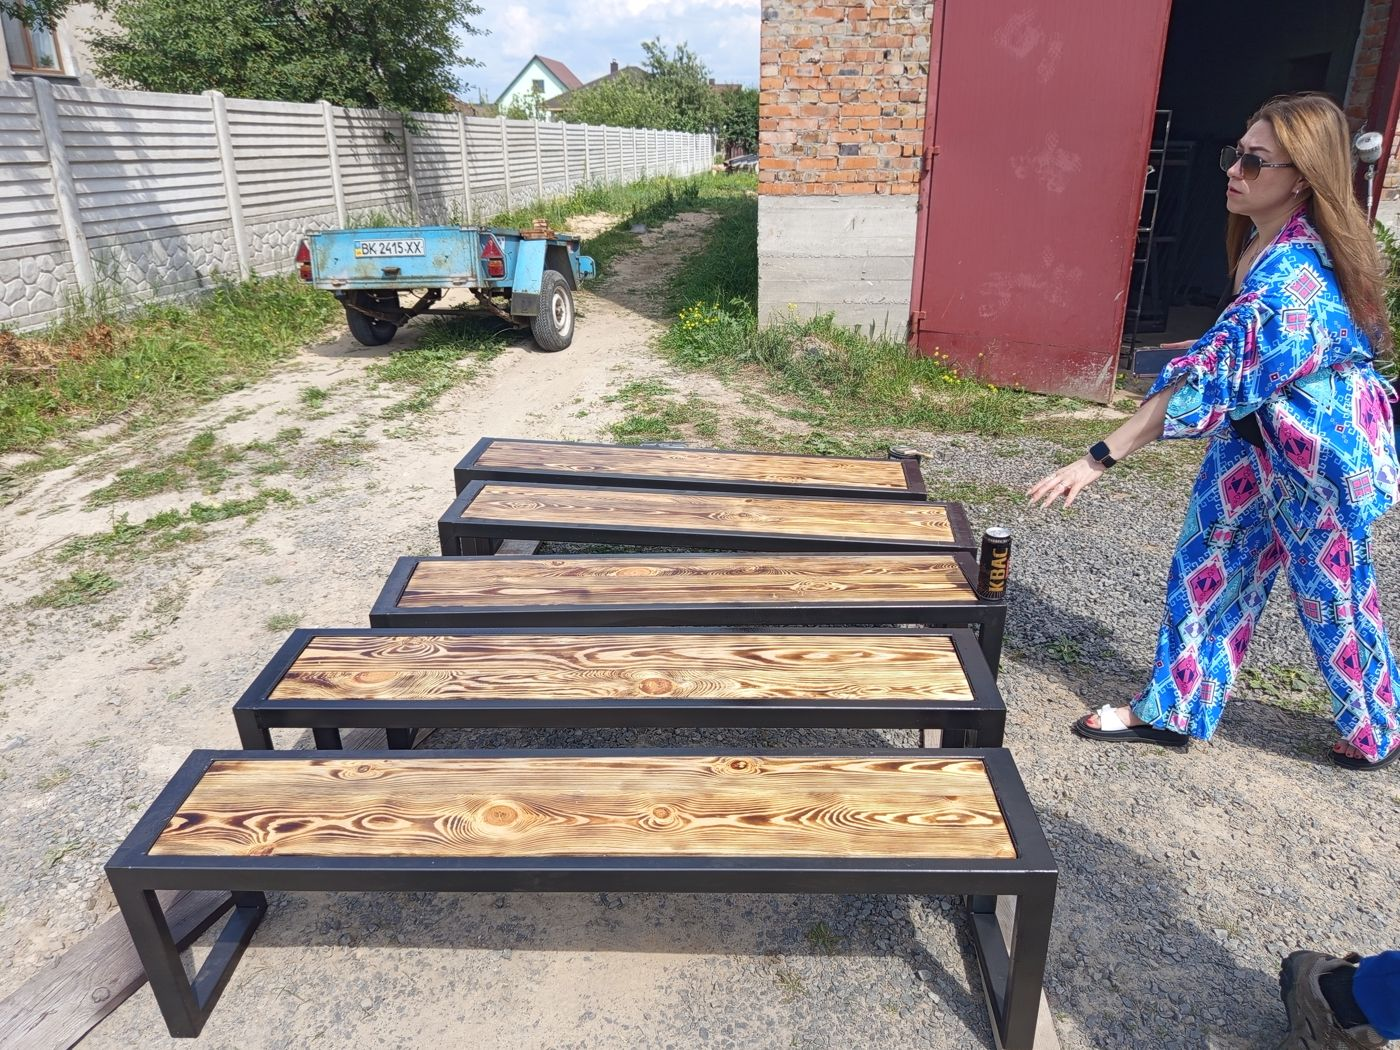
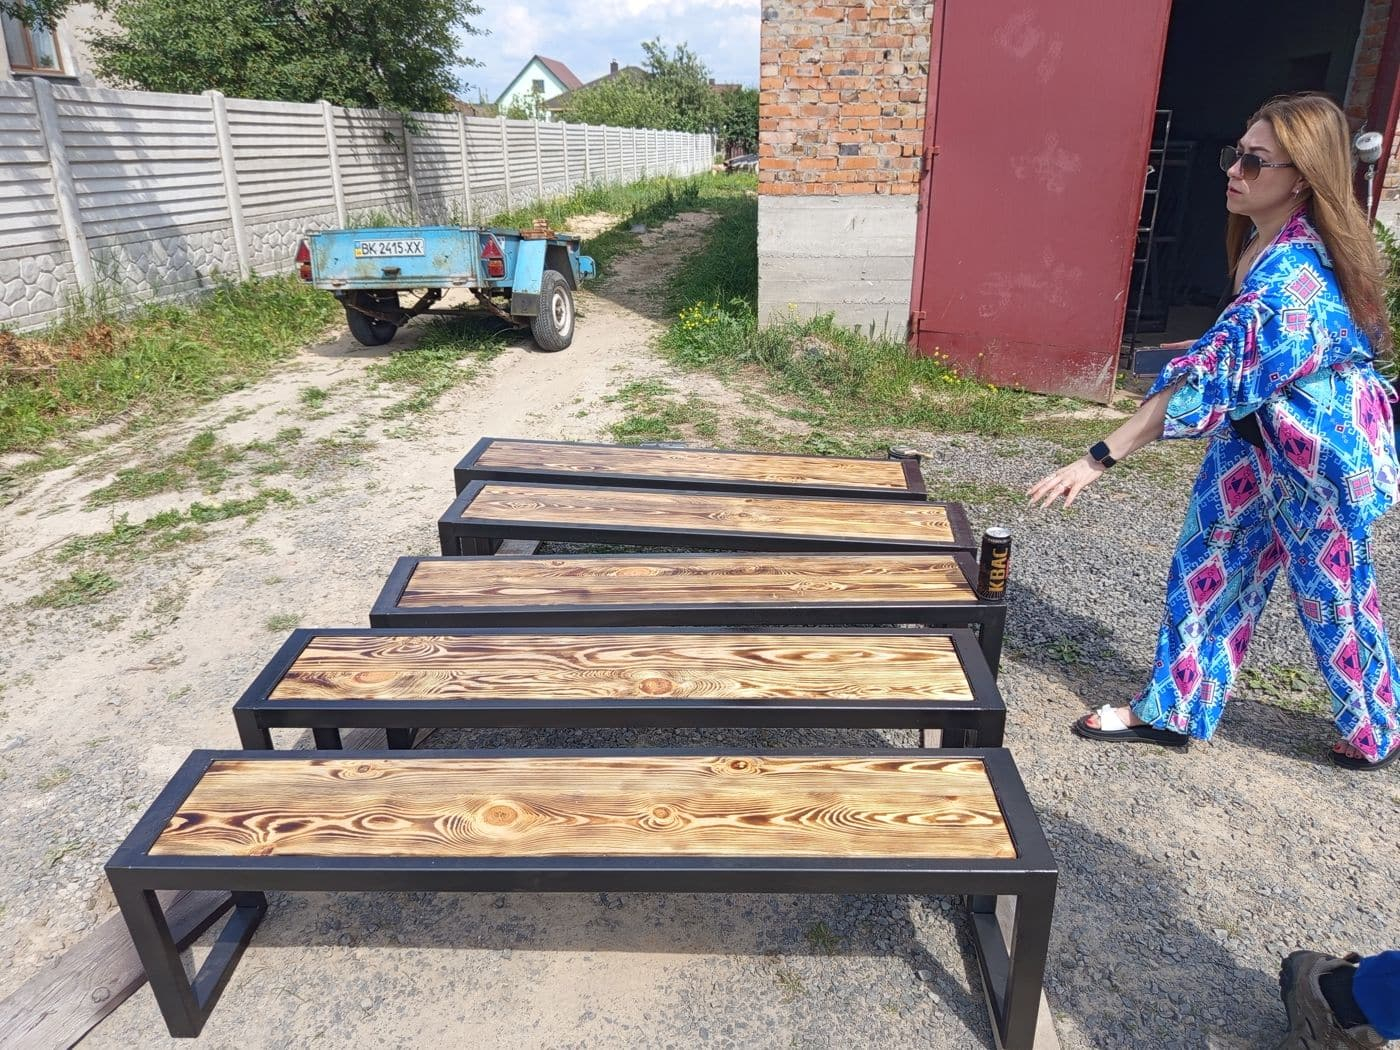
Сайт 2026-11-25 09:43

diff --git a/obyekty.html b/obyekty.html
@@ -51,14 +51,14 @@
   <div class="wrap">
     <div class="sec-h"><div class="k">Готові вироби</div><h2>Те, що ми виготовили</h2><p><span class="ph">[фото на погодження: підписи без розмірів і місць, уточнимо з Пашею]</span> Приклад сторінки об'єкта: <a href="obyekt-shablon.html" style="color:var(--lime-ink);font-weight:700">шаблон</a>.</p></div>
     <div class="gal">
-      <div class="shot img"><img src="/img/ready-canopy.jpg" alt="Арковий навіс з полікарбонатом" loading="lazy"><span class="cap">Арковий навіс з полікарбонатом</span></div>
-      <div class="shot img"><img src="/img/d-gazebo.jpg" alt="Навіс-альтанка з решіткою" loading="lazy"><span class="cap">Навіс-альтанка з решіткою</span></div>
-      <div class="shot img"><img src="/img/d-benches-photo.jpg" alt="Лавки: метал і дерево" loading="lazy"><span class="cap">Лавки: метал і дерево</span></div>
-      <div class="shot img"><img src="/img/d-bench-back.jpg" alt="Лавка зі спинкою" loading="lazy"><span class="cap">Лавка зі спинкою</span></div>
-      <div class="shot img"><img src="/img/d-shelf.jpg" alt="Стелаж: метал і дерево" loading="lazy"><span class="cap">Стелаж: метал і дерево</span></div>
-      <div class="shot img"><img src="/img/d-bed.jpg" alt="Металеве ліжко" loading="lazy"><span class="cap">Металеве ліжко</span></div>
-      <div class="shot img"><img src="/img/d-railing-house.jpg" alt="Перила сходів" loading="lazy"><span class="cap">Перила сходів</span></div>
-      <div class="shot img"><img src="/img/d-railing-canopy.jpg" alt="Козирок і перила біля входу" loading="lazy"><span class="cap">Козирок і перила біля входу</span></div>
+      <div class="shot img"><img src="/img/ready-canopy.jpg" srcset="/img/ready-canopy-600.jpg 600w, /img/ready-canopy.jpg 1400w" sizes="(max-width:760px) 100vw, 380px" alt="Арковий навіс з полікарбонатом" loading="lazy"><span class="cap">Арковий навіс з полікарбонатом</span></div>
+      <div class="shot img"><img src="/img/d-gazebo.jpg" srcset="/img/d-gazebo-600.jpg 600w, /img/d-gazebo.jpg 1400w" sizes="(max-width:760px) 100vw, 380px" alt="Навіс-альтанка з решіткою" loading="lazy"><span class="cap">Навіс-альтанка з решіткою</span></div>
+      <div class="shot img"><img src="/img/d-benches-photo.jpg" srcset="/img/d-benches-photo-600.jpg 600w, /img/d-benches-photo.jpg 1400w" sizes="(max-width:760px) 100vw, 380px" alt="Лавки: метал і дерево" loading="lazy"><span class="cap">Лавки: метал і дерево</span></div>
+      <div class="shot img"><img src="/img/d-bench-back.jpg" srcset="/img/d-bench-back-600.jpg 600w, /img/d-bench-back.jpg 1400w" sizes="(max-width:760px) 100vw, 380px" alt="Лавка зі спинкою" loading="lazy"><span class="cap">Лавка зі спинкою</span></div>
+      <div class="shot img"><img src="/img/d-shelf.jpg" srcset="/img/d-shelf-600.jpg 600w, /img/d-shelf.jpg 1400w" sizes="(max-width:760px) 100vw, 380px" alt="Стелаж: метал і дерево" loading="lazy"><span class="cap">Стелаж: метал і дерево</span></div>
+      <div class="shot img"><img src="/img/d-bed.jpg" srcset="/img/d-bed-600.jpg 600w, /img/d-bed.jpg 1400w" sizes="(max-width:760px) 100vw, 380px" alt="Металеве ліжко" loading="lazy"><span class="cap">Металеве ліжко</span></div>
+      <div class="shot img"><img src="/img/d-railing-house.jpg" srcset="/img/d-railing-house-600.jpg 600w, /img/d-railing-house.jpg 1400w" sizes="(max-width:760px) 100vw, 380px" alt="Перила сходів" loading="lazy"><span class="cap">Перила сходів</span></div>
+      <div class="shot img"><img src="/img/d-railing-canopy.jpg" srcset="/img/d-railing-canopy-600.jpg 600w, /img/d-railing-canopy.jpg 1400w" sizes="(max-width:760px) 100vw, 380px" alt="Козирок і перила біля входу" loading="lazy"><span class="cap">Козирок і перила біля входу</span></div>
     </div>
   </div>
 </section>
@@ -67,12 +67,12 @@
   <div class="wrap">
     <div class="sec-h"><div class="k">Каркаси й ангари</div><h2>Каркаси в роботі</h2><p>Об'єкти в процесі: каркас змонтовано, покриття на цих кадрах ще немає.</p></div>
     <div class="gal">
-      <div class="shot img"><img src="/img/e-hangar-inside.jpg" alt="Арковий ангар: каркас зсередини" loading="lazy"><span class="cap">Арковий ангар: каркас зсередини</span></div>
-      <div class="shot img"><img src="/img/e-hangar-frame.jpg" alt="Арковий ангар: каркас змонтовано" loading="lazy"><span class="cap">Арковий ангар: каркас змонтовано</span></div>
-      <div class="shot img"><img src="/img/e-hangar-arches.jpg" alt="Арки ангара" loading="lazy"><span class="cap">Арки ангара</span></div>
-      <div class="shot img"><img src="/img/e-hangar-below.jpg" alt="Арки ангара знизу" loading="lazy"><span class="cap">Арки ангара знизу</span></div>
-      <div class="shot img"><img src="/img/z-truss-columns.jpg" alt="Сталева ферма на бетонних колонах" loading="lazy"><span class="cap">Сталева ферма на бетонних колонах</span></div>
-      <div class="shot img"><img src="/img/e-truss-yard.jpg" alt="Ферма ангара в монтажі" loading="lazy"><span class="cap">Ферма ангара в монтажі</span></div>
+      <div class="shot img"><img src="/img/e-hangar-inside.jpg" srcset="/img/e-hangar-inside-600.jpg 600w, /img/e-hangar-inside.jpg 1400w" sizes="(max-width:760px) 100vw, 380px" alt="Арковий ангар: каркас зсередини" loading="lazy"><span class="cap">Арковий ангар: каркас зсередини</span></div>
+      <div class="shot img"><img src="/img/e-hangar-frame.jpg" srcset="/img/e-hangar-frame-600.jpg 600w, /img/e-hangar-frame.jpg 1400w" sizes="(max-width:760px) 100vw, 380px" alt="Арковий ангар: каркас змонтовано" loading="lazy"><span class="cap">Арковий ангар: каркас змонтовано</span></div>
+      <div class="shot img"><img src="/img/e-hangar-arches.jpg" srcset="/img/e-hangar-arches-600.jpg 600w, /img/e-hangar-arches.jpg 1400w" sizes="(max-width:760px) 100vw, 380px" alt="Арки ангара" loading="lazy"><span class="cap">Арки ангара</span></div>
+      <div class="shot img"><img src="/img/e-hangar-below.jpg" srcset="/img/e-hangar-below-600.jpg 600w, /img/e-hangar-below.jpg 1400w" sizes="(max-width:760px) 100vw, 380px" alt="Арки ангара знизу" loading="lazy"><span class="cap">Арки ангара знизу</span></div>
+      <div class="shot img"><img src="/img/z-truss-columns.jpg" srcset="/img/z-truss-columns-600.jpg 600w, /img/z-truss-columns.jpg 1400w" sizes="(max-width:760px) 100vw, 380px" alt="Сталева ферма на бетонних колонах" loading="lazy"><span class="cap">Сталева ферма на бетонних колонах</span></div>
+      <div class="shot img"><img src="/img/e-truss-yard.jpg" srcset="/img/e-truss-yard-600.jpg 600w, /img/e-truss-yard.jpg 1400w" sizes="(max-width:760px) 100vw, 380px" alt="Ферма ангара в монтажі" loading="lazy"><span class="cap">Ферма ангара в монтажі</span></div>
     </div>
   </div>
 </section>
@@ -81,10 +81,10 @@
   <div class="wrap">
     <div class="sec-h"><div class="k">Процес</div><h2>Як це виглядає в роботі</h2></div>
     <div class="gal">
-      <div class="shot img"><img src="/img/p-crane-truss.jpg" alt="Кран піднімає ферму" loading="lazy"><span class="cap">Кран піднімає ферму</span></div>
-      <div class="shot img"><img src="/img/p-white-trusses.jpg" alt="Збирання ферм" loading="lazy"><span class="cap">Збирання ферм</span></div>
-      <div class="shot img"><img src="/img/a-wa0019.jpg" alt="Монтаж ферми краном" loading="lazy"><span class="cap">Монтаж ферми краном</span></div>
-      <div class="shot img"><img src="/img/a-wa0016.jpg" alt="Каркас у монтажі" loading="lazy"><span class="cap">Каркас у монтажі</span></div>
+      <div class="shot img"><img src="/img/p-crane-truss.jpg" srcset="/img/p-crane-truss-600.jpg 600w, /img/p-crane-truss.jpg 1400w" sizes="(max-width:760px) 100vw, 380px" alt="Кран піднімає ферму" loading="lazy"><span class="cap">Кран піднімає ферму</span></div>
+      <div class="shot img"><img src="/img/p-white-trusses.jpg" srcset="/img/p-white-trusses-600.jpg 600w, /img/p-white-trusses.jpg 1400w" sizes="(max-width:760px) 100vw, 380px" alt="Збирання ферм" loading="lazy"><span class="cap">Збирання ферм</span></div>
+      <div class="shot img"><img src="/img/a-wa0019.jpg" srcset="/img/a-wa0019-600.jpg 600w, /img/a-wa0019.jpg 1400w" sizes="(max-width:760px) 100vw, 380px" alt="Монтаж ферми краном" loading="lazy"><span class="cap">Монтаж ферми краном</span></div>
+      <div class="shot img"><img src="/img/a-wa0016.jpg" srcset="/img/a-wa0016-600.jpg 600w, /img/a-wa0016.jpg 1400w" sizes="(max-width:760px) 100vw, 380px" alt="Каркас у монтажі" loading="lazy"><span class="cap">Каркас у монтажі</span></div>
     </div>
   </div>
 </section>
@@ -93,10 +93,10 @@
   <div class="wrap">
     <div class="sec-h"><div class="k">Команда</div><h2>Люди за роботою</h2><p>Зварювальники й монтажники на об'єктах і за виготовленням.</p></div>
     <div class="gal">
-      <div class="shot img"><img src="/img/team-welder-site.jpg" alt="Зварювання каркаса на ділянці" loading="lazy"><span class="cap">Зварювання каркаса на ділянці</span></div>
-      <div class="shot img"><img src="/img/team-truss-worker.jpg" alt="Робота з сталевою фермою" loading="lazy"><span class="cap">Робота з сталевою фермою</span></div>
-      <div class="shot img"><img src="/img/team-frame-weld.jpg" alt="Монтаж і зварювання каркаса" loading="lazy"><span class="cap">Монтаж і зварювання каркаса</span></div>
-      <div class="shot img"><img src="/img/d-forged.jpg" alt="Ковані елементи: візерунок" loading="lazy"><span class="cap">Ковані елементи: візерунок</span></div>
+      <div class="shot img"><img src="/img/team-welder-site.jpg" srcset="/img/team-welder-site-600.jpg 600w, /img/team-welder-site.jpg 1400w" sizes="(max-width:760px) 100vw, 380px" alt="Зварювання каркаса на ділянці" loading="lazy"><span class="cap">Зварювання каркаса на ділянці</span></div>
+      <div class="shot img"><img src="/img/team-truss-worker.jpg" srcset="/img/team-truss-worker-600.jpg 600w, /img/team-truss-worker.jpg 1400w" sizes="(max-width:760px) 100vw, 380px" alt="Робота з сталевою фермою" loading="lazy"><span class="cap">Робота з сталевою фермою</span></div>
+      <div class="shot img"><img src="/img/team-frame-weld.jpg" srcset="/img/team-frame-weld-600.jpg 600w, /img/team-frame-weld.jpg 1400w" sizes="(max-width:760px) 100vw, 380px" alt="Монтаж і зварювання каркаса" loading="lazy"><span class="cap">Монтаж і зварювання каркаса</span></div>
+      <div class="shot img"><img src="/img/d-forged.jpg" srcset="/img/d-forged-600.jpg 600w, /img/d-forged.jpg 1400w" sizes="(max-width:760px) 100vw, 380px" alt="Ковані елементи: візерунок" loading="lazy"><span class="cap">Ковані елементи: візерунок</span></div>
     </div>
   </div>
 </section>
